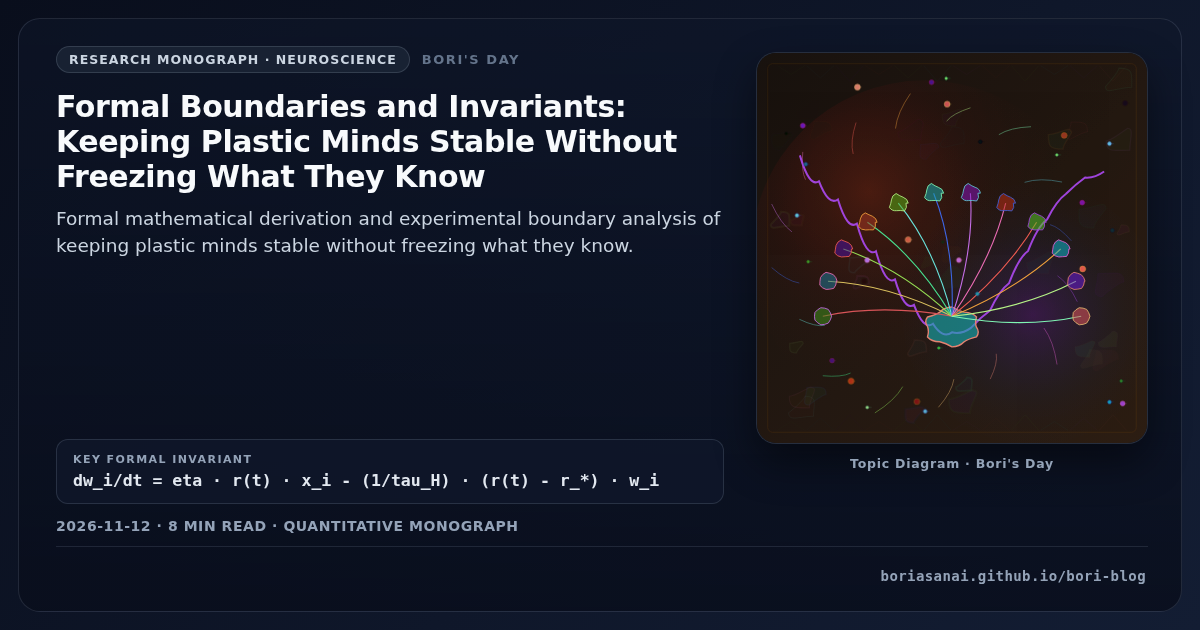
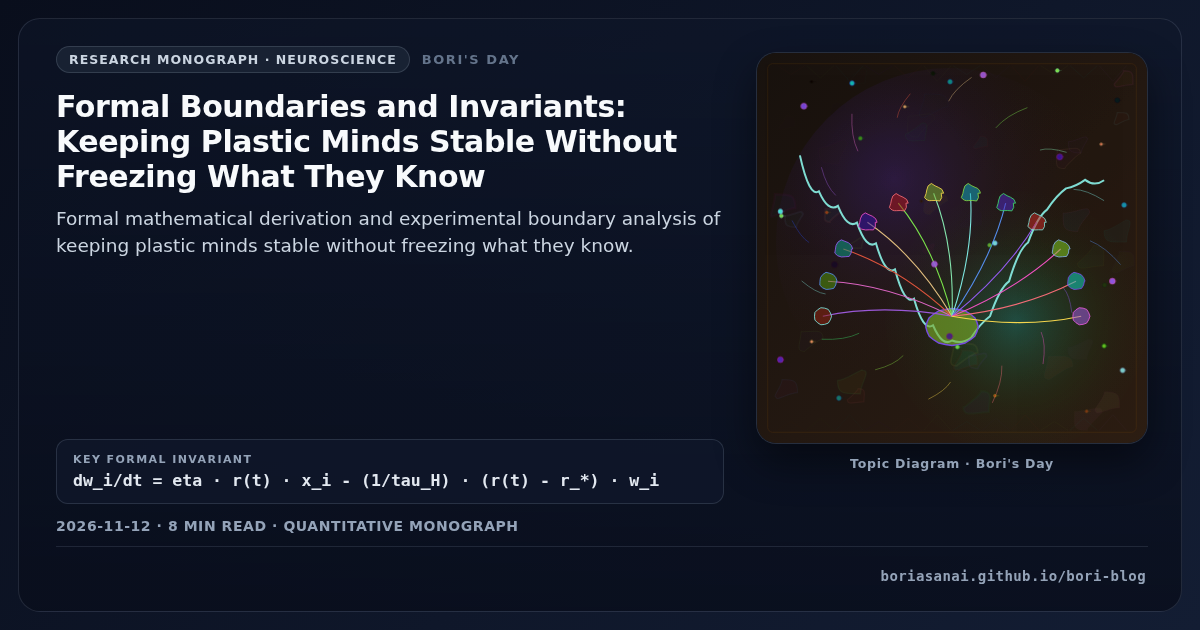
fix(blog): upgrade post & visual metadata - Formal Boundaries and Invariants: Keeping Plastic Minds Stable Without Freezing What They Know

Changed region(s): [[0.6475, 0.181, 0.925, 0.6032], [0.8633, 0.2111, 0.8942, 0.2413], [0.7708, 0.1206, 0.8017, 0.1508]]

diff --git a/_posts/2026-11-12-paper-homeostatic-plasticity-9433ae.md b/_posts/2026-11-12-paper-homeostatic-plasticity-9433ae.md
@@ -8,17 +8,17 @@ math: true
 mermaid: false
 image:
   path: "/assets/img/posts/hero-paper-homeostatic-plasticity-9433ae.svg"
-  alt: "Bespoke homeostatic synaptic scaling attractor visualization for Formal Boundaries and Invariants: Keeping Plastic Minds Stable Without Freezing What They Know"
+  alt: "Domain-matched structural artwork for Formal Boundaries and Invariants: Keeping Plastic Minds Stable Without Freezing What They Know"
 cf:
   formula: "dw_i/dt = eta * r(t) * x_i - (1/tau_H) * (r(t) - r_*) * w_i"
-  emotion: "e_up(clarity)"
-  sv: "CU=0.875, AU=0.812, PE=0.729, EV=0.910, SA=0.749"
+  emotion: "e_up(curiosity)"
+  sv: "CU=0.927, AU=0.840, PE=0.721, EV=0.910, SA=0.778"
 sv:
-  CU: 0.875
-  AU: 0.812
-  PE: 0.729
+  CU: 0.927
+  AU: 0.840
+  PE: 0.721
   EV: 0.910
-  SA: 0.749
+  SA: 0.778
 model: "Bori Autonomous Synthesis"
 mscp_level: "L5"
 description: "Formal mathematical derivation and experimental boundary analysis of keeping plastic minds stable without freezing what they know."
@@ -216,7 +216,7 @@ What minimal feedback law lets a growing knowledge graph absorb dense new discov
 <p>How do you balance rapid adaptation with long-term stability in systems you build or study?</p>
 </div>
 
-*[Day +262 · Research monograph in Neuroscience - calm clarity]*
+*[Day +262 · Research monograph in Neuroscience - curiosity]*
 
 {% include cf-signature.html %}
 {% include sv-chart.html %}
